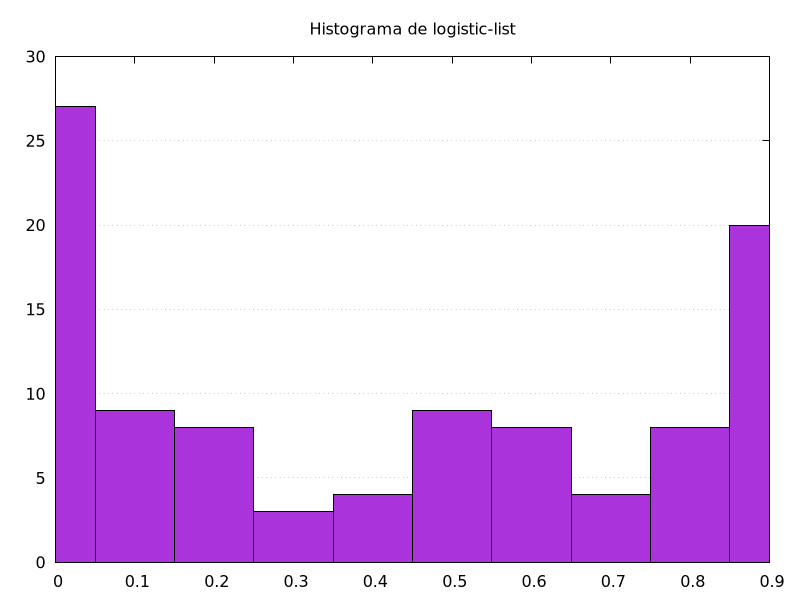
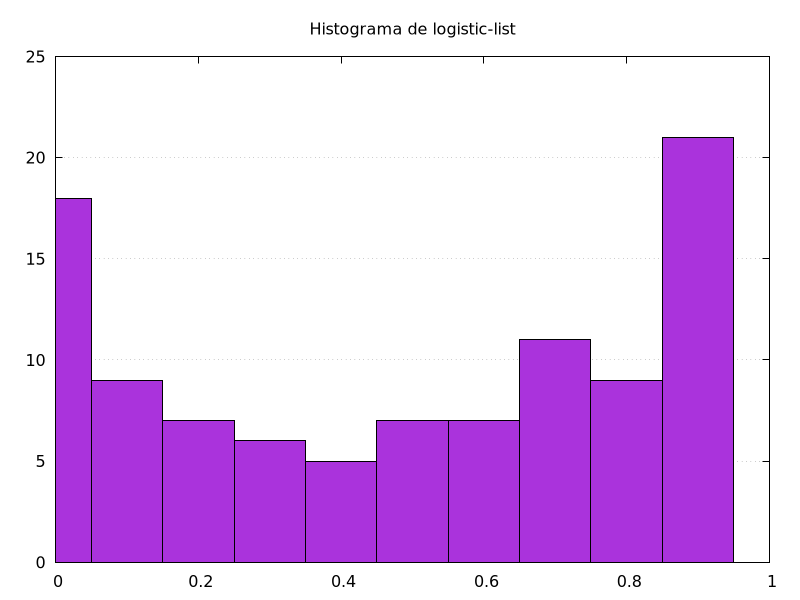
second part

diff --git a/taylor.c b/taylor.c
@@ -1,0 +1,71 @@
+#define ANALYSIS_IMPL
+#include "analysis.h"
+
+#define N 10 + 1
+
+float taylor (float center, floats terms, float x) {
+	float result = 0;
+	float xn = 1;
+	for (size_t i = 0; i < terms.count; i++) {
+		result += terms.data[i] * xn;
+		xn *= (x - center);
+	}
+	return result;
+}
+
+int factorial(int n) {
+	int i = 1;
+	for (; n > 1; n--) i*=n;
+	return i;
+}
+
+void save_values (floats x, floats y, char* path) {
+	FILE* f = fopen(path, "w");
+	for (size_t i = 0; i < x.count; i++)
+		fprintf(f, "%f\t%f%s", x.data[i], y.data[i],i == x.count - 1 ? "" : "\n");
+	fclose(f);
+}
+
+
+int main (void) {
+	floats exponent_terms = {0};
+	floats cos_terms = {0};
+	float cos_secuent[] = {1,0,-1,0};
+	float faci;
+	floats exp_x ={0}, exp_y={0}, cos_x={0}, cos_y={0};
+	float x_v;
+	char path[32];
+	for(int i = 0; i < N; i++) {
+		faci = 1.0/factorial(i);
+		floats_append(&exponent_terms, faci);
+		floats_append(&cos_terms, cos_secuent[i % 4]*faci);
+		exp_x.count =0;
+		exp_y.count = 0;
+		cos_x.count = 0;
+		cos_y.count = 0;
+		for(int j = 0; j < 500; j++) {
+			x_v = (j / 500.f - 0.5)*4;
+			floats_append(&exp_x, x_v);
+			floats_append(&exp_y, taylor(0, exponent_terms,x_v));
+			x_v = (j / 500.f - 0.5)*12;
+			floats_append(&cos_x, x_v);
+			floats_append(&cos_y, taylor(0, cos_terms, x_v));
+		}
+		sprintf(path, "exp%d.dat", i);
+		save_values(exp_x, exp_y, path);
+		sprintf(path, "cos%d.dat", i);
+		save_values(cos_x, cos_y, path);
+	}
+	printf("# taylor aprox n = %d\ne = %f\ncos(1) = %f\n\n",
+			N,
+			taylor(0, exponent_terms, 1),
+			taylor(0, cos_terms, 1)
+	);
+	free(exp_x.data);
+	free(exp_y.data);
+	free(cos_x.data);
+	free(cos_y.data);
+	free(exponent_terms.data);
+	free(cos_terms.data);
+	return 0;
+}

diff --git a/bld.c b/bld.c
@@ -9,8 +9,19 @@ void cmd (char *prompt) {
 }
 
 int main (int argc, char** argv) {
+	// recompile
+	if (argc == 1) {
+		cmd("gcc -o bld bld.c");
+		cmd("./bld R");
+		exit(0);
+	}
+	// random
 	cmd("gcc -Wall -Wextra -lm -o rand_gen rand_gen.c");
 	cmd("./rand_gen");
-	cmd("gnuplot graph.gp");
+	cmd("gnuplot rand.gp");
+	// taylor
+	cmd("gcc -Wall -Wextra -lm -o taylor taylor.c");
+	cmd("./taylor");
+	cmd("gnuplot taylor.gp");
 	return 0;
 }

diff --git a/Taller_01.md b/Taller_01.md
@@ -4,17 +4,33 @@
 ## Numeros pseudoaleatorios
 - Realizar generadores de numeros pseudoaleatorios (tend map, logistic map) y calcular estadisticas (media, varianza, coeficiente de asimetria, histograma).
 ### Resultados:
+- estadisticas para 100 valores aleatorios
 ``` md
 # logistic map
-mean: 0.463930
-var: 0.132719
-asymetry: 0.140880
+mean=0.526487
+var=0.118214
+asymetry=-0.118942
 
 # tent map
-mean: 0.514378
-var: 0.079439
-asymetry: -0.041304
+mean=0.514378
+var=0.079439
+asymetry=-0.041304
 ```
+- histogramas
 | ![histograma mapeo logistico](logistic-list.png) | ![histograma mapeo de tienda de campaña](camp-list.png) |
 | - | - |
+## Taylor
+- Realizar aproximaciones de Taylor para la función exponencial y una función de nuestra elección (*coseno*).
+### resultados
+- evaluacion de funciones
+```
+# taylor aprox n = 10
+e = 2.718282
+cos(1) = 0.540303
+```
+- graficas
+| funcion | grafico |
+| - | - |
+| $e^x$ | ![grafico exponencial](exp.png) |
+| $\cos x$ | ![grafico coseno](cos.png) |
 ## Newton-Rhapson
